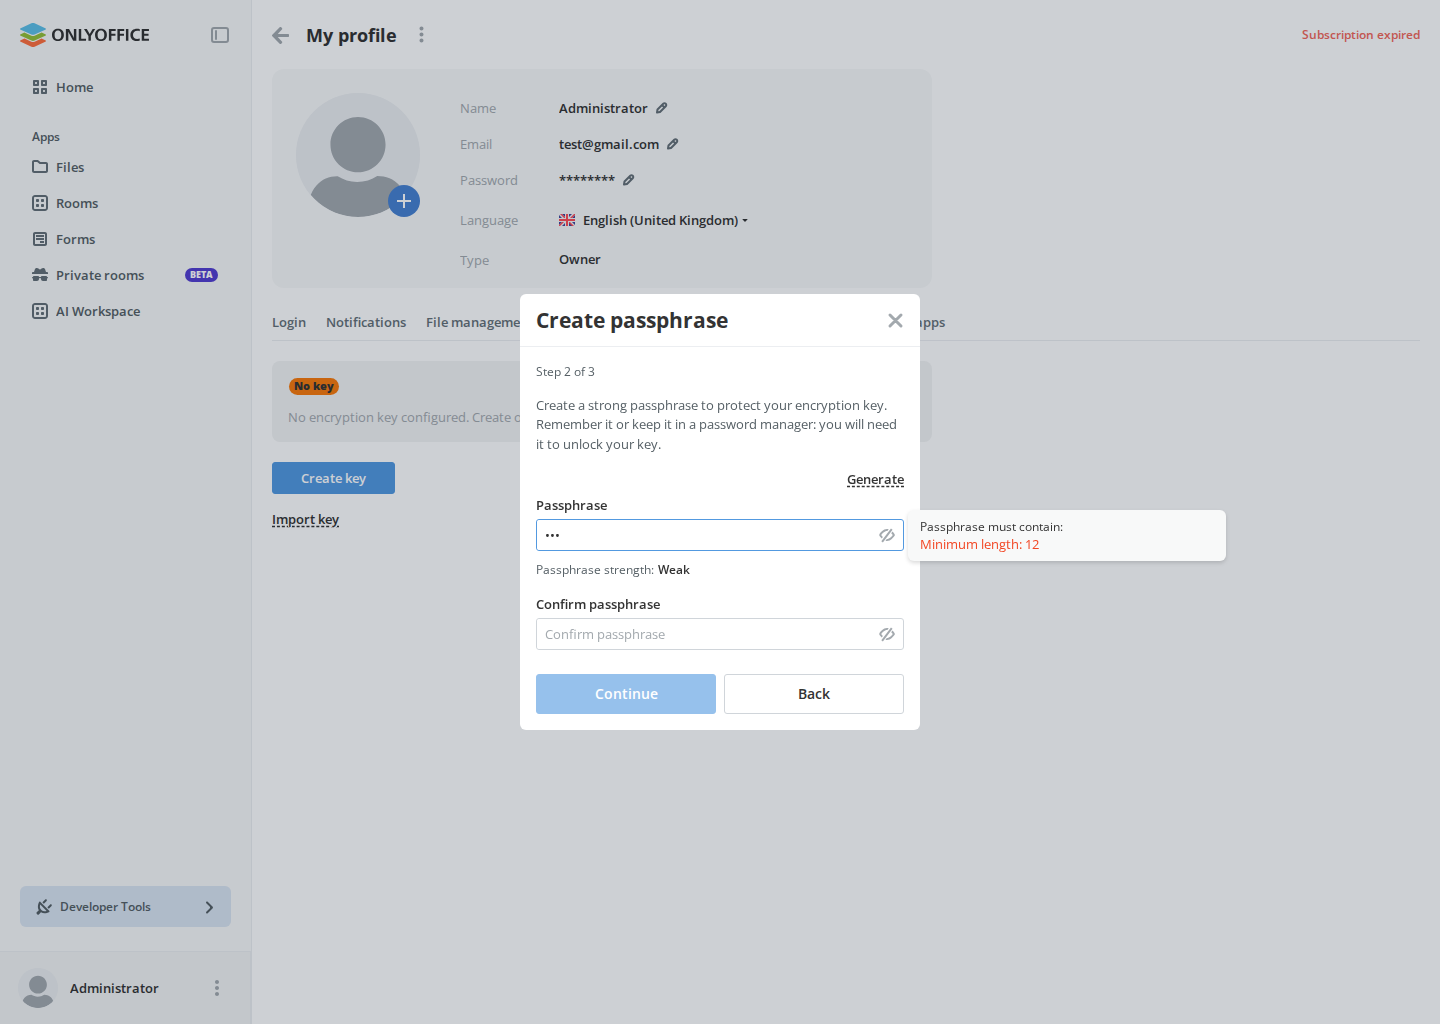
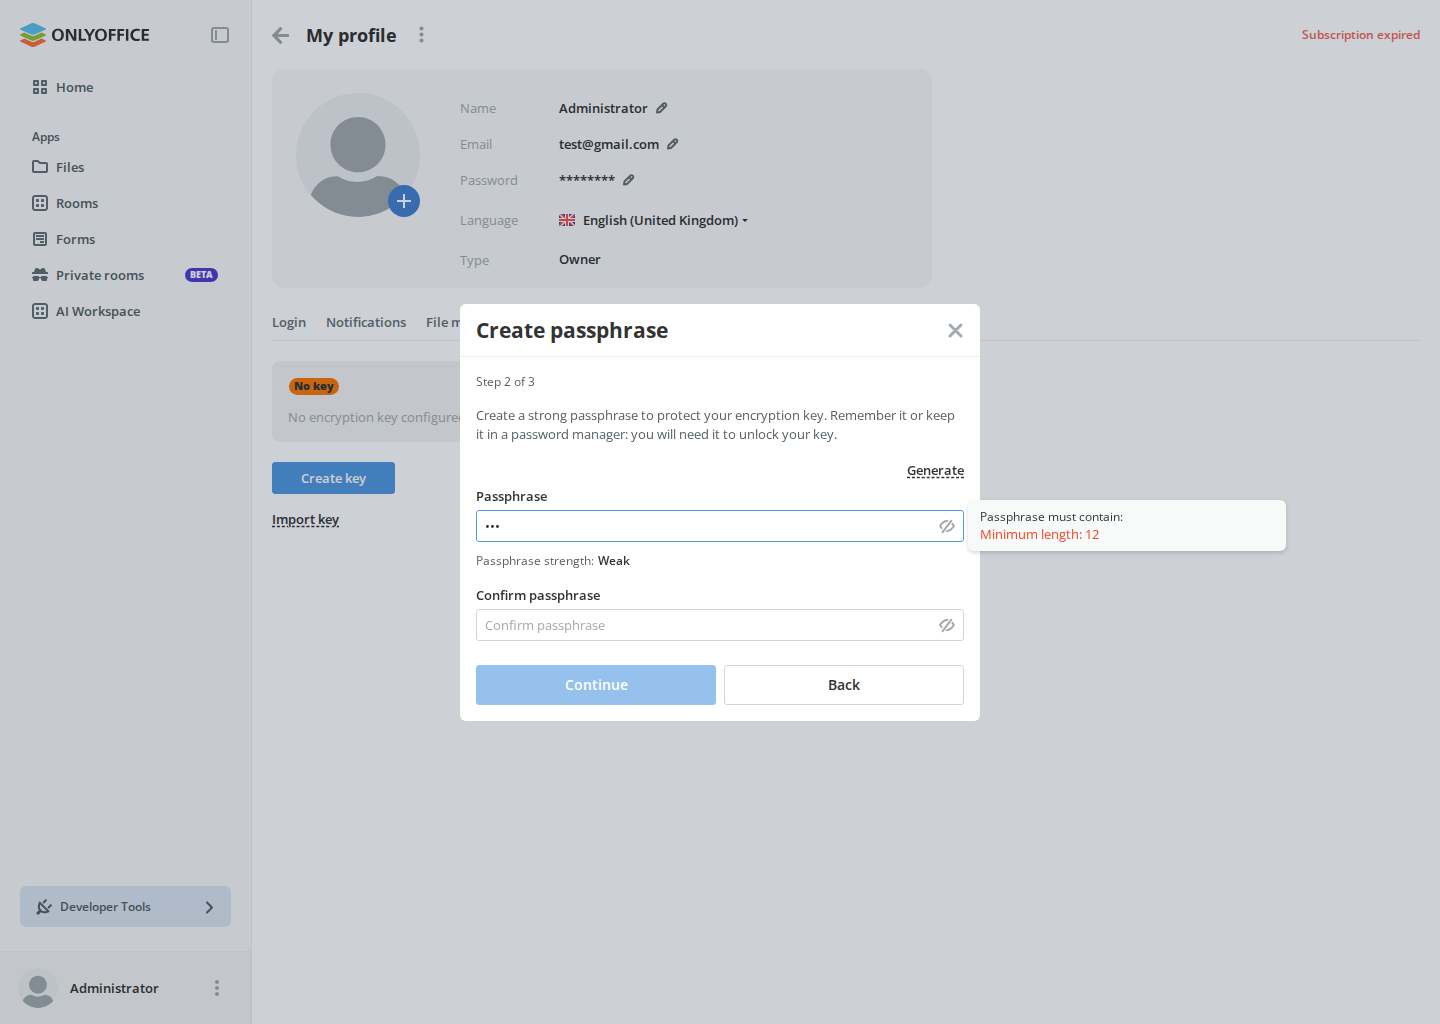
E2E: Private rooms: check the rules tooltip beside the wider key setup dialog
Key setup is 520 px wide now, which leaves less room beside it for the
tooltip with the passphrase rules. A case at 1024 px asserts that the
tooltip stays inside the screen and clear of the texts, the fields and
the actions of the dialog; the cases at 1440 and 390 px pass unchanged.
The two desktop screenshots of the passphrase step are retaken under
Docker for the new width; the phone ones did not change.

OpenSpec: private-rooms-key-visual-polish 2.3, 2.4

Changed region(s): [[0.3125, 0.2812, 0.9062, 0.7188]]

diff --git a/packages/client/__tests__/keys-management.spec.ts b/packages/client/__tests__/keys-management.spec.ts
@@ -423,6 +423,27 @@ test.describe("Profile > Keys Management: key dialogs on screen", () => {
     ]);
   });
 
+  test("Rules shown while typing at 1024 px", async ({
+    page,
+    mockRequest,
+    baseUrl,
+  }) => {
+    mockRequest.use(...privacyroomKeysHandlers(TEST_PORT, { initial: [] }));
+    await page.setViewportSize({ width: 1024, height: 768 });
+    const { dialog, tooltip } = await openRulesTooltip(page, baseUrl);
+    const tooltipBox = await boxOf(tooltip);
+
+    expect(tooltipBox.x).toBeGreaterThanOrEqual(0);
+    expect(tooltipBox.x + tooltipBox.width).toBeLessThanOrEqual(1024);
+    for (const covered of [
+      ...dialogTexts(dialog),
+      dialog.locator("#tooltipContent-passphrase"),
+      dialog.getByLabel("Confirm passphrase", { exact: true }),
+    ]) {
+      expect(overlaps(tooltipBox, await boxOf(covered))).toBe(false);
+    }
+  });
+
   test("Narrow screen", async ({ page, mockRequest, baseUrl }) => {
     mockRequest.use(...privacyroomKeysHandlers(TEST_PORT, { initial: [] }));
     await page.setViewportSize(MOBILE);

diff --git a/openspec/changes/private-rooms-key-visual-polish/tasks.md b/openspec/changes/private-rooms-key-visual-polish/tasks.md
@@ -13,8 +13,8 @@ and SDK unit tests must stay green.
 
 - [x] 2.1 Show the words of `packages/shared/dialogs/key-generation/RecoveryPhraseContent.tsx` as numbered tiles, four in a row and two under the phone breakpoint, keeping the ordered list and the generated numbers, and make the key setup dialog and the standalone recovery display large on a wide screen. Verify: cases "Wide screen", "Phone", "Longest word" and "Copied by hand" in `packages/shared/dialogs/key-generation/__tests__/RecoveryPhraseDisplayModal.test.tsx` for the structure and the copy, and a Playwright case in `packages/client/__tests__/keys-management.spec.ts` that asserts from bounding boxes four tiles in the first row at 1440 px, two at 390 px, and a phrase with an eight-letter word on one line
 - [x] 2.2 Put an icon before the label of each save action, hidden from assistive technology, in the row that wraps. Verify: unit cases "Icons shown" and "Name of an action" in `RecoveryPhraseDisplayModal.test.tsx`, Playwright cases in `keys-management.spec.ts` that assert one row with no label cut at 1440 px and, as "Long labels", a wrapped row with no label cut at 390 px, where the English labels no longer fit one row, and `cd common/tests && npx vitest run test/images.test.js` if an icon was added
-- [ ] 2.3 Rerun the bounding-box cases of the rules tooltip against the wider dialog and add a width of 1024 px to them. Verify: "Rules shown while typing" and "Narrow screen" of `keys-management.spec.ts` pass under Docker at 1440, 1024 and 390 px
-- [ ] 2.4 Update the screenshots of the key setup dialog under Docker. Verify: `keys-management.spec.ts` and `private-rooms-section.spec.ts` pass under Docker and the screenshot diff holds only the key dialogs
+- [x] 2.3 Rerun the bounding-box cases of the rules tooltip against the wider dialog and add a width of 1024 px to them. Verify: "Rules shown while typing" and "Narrow screen" of `keys-management.spec.ts` pass under Docker at 1440, 1024 and 390 px
+- [x] 2.4 Update the screenshots of the key setup dialog under Docker. Verify: `keys-management.spec.ts` and `private-rooms-section.spec.ts` pass under Docker and the screenshot diff holds only the key dialogs
 
 ## 3. Explanation step
 
